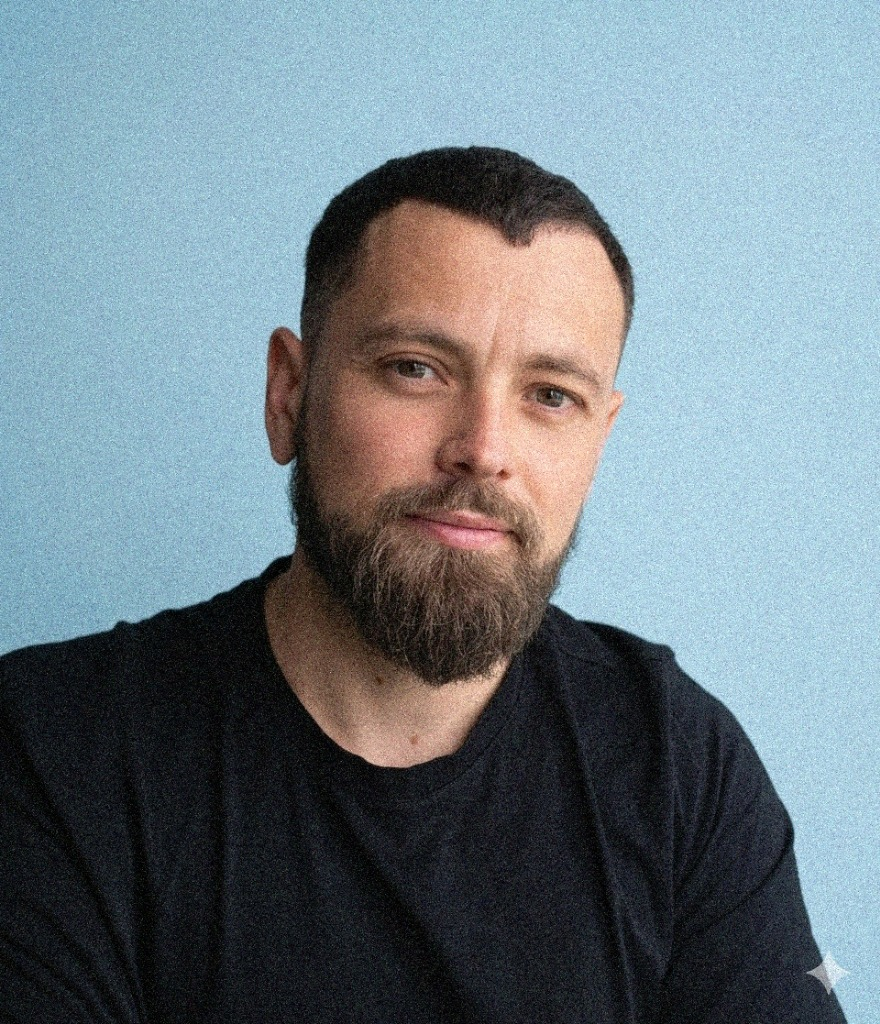
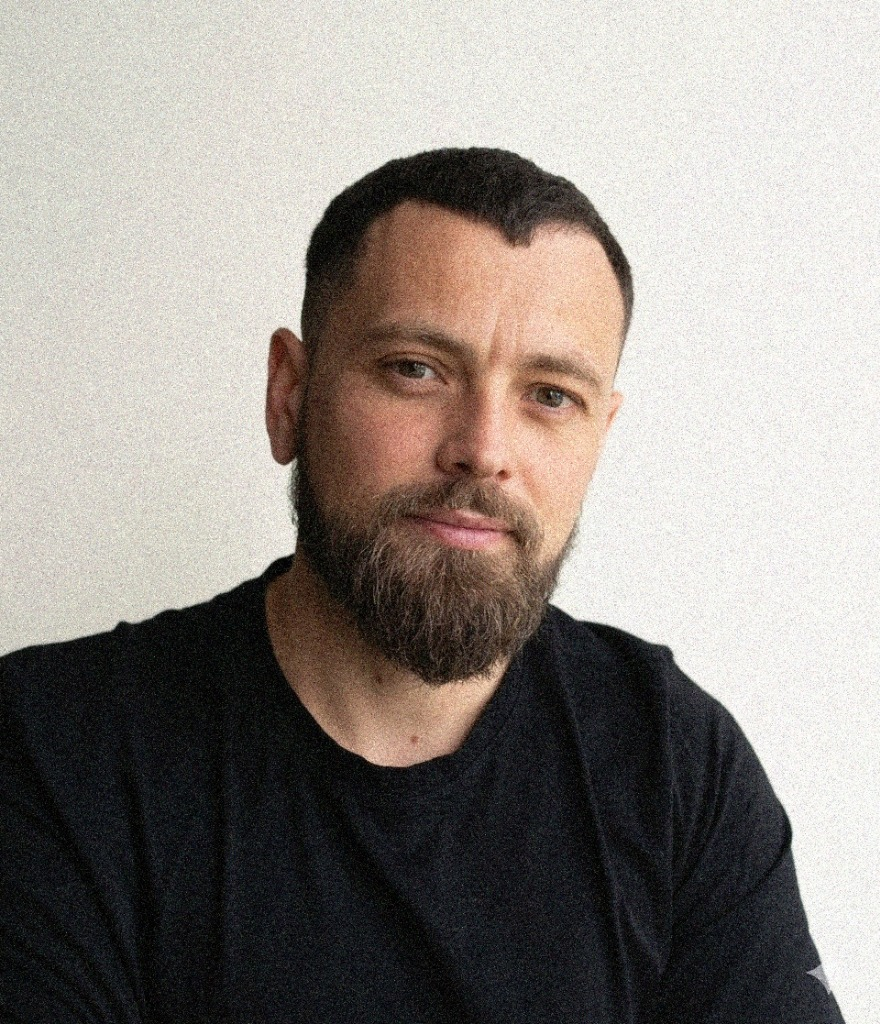
Update profile picture back to JPEG version

diff --git a/index.html b/index.html
@@ -1674,7 +1674,7 @@
 
   <!-- HERO -->
   <section class="hero">
-    <div class="hero-avatar"><img src="saulo_profile.png" alt="Saulo"
+    <div class="hero-avatar"><img src="saulo_profile.jpg" alt="Saulo"
         style="width: 100%; height: 100%; object-fit: cover; display: block;"></div>
     <div class="hero-greeting">Gm, I'm</div>
     <h1 class="hero-name"><span class="shimmer">Saulo</span></h1>
